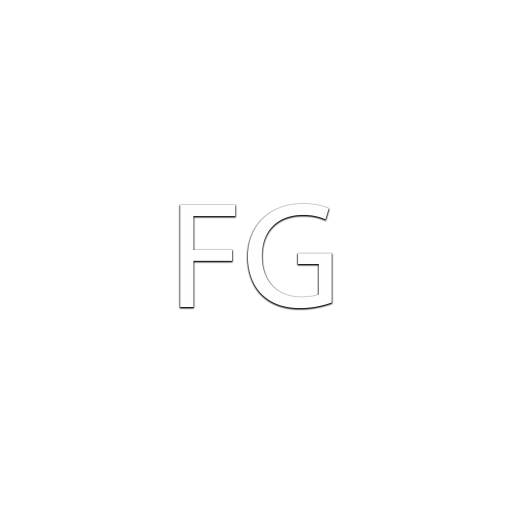
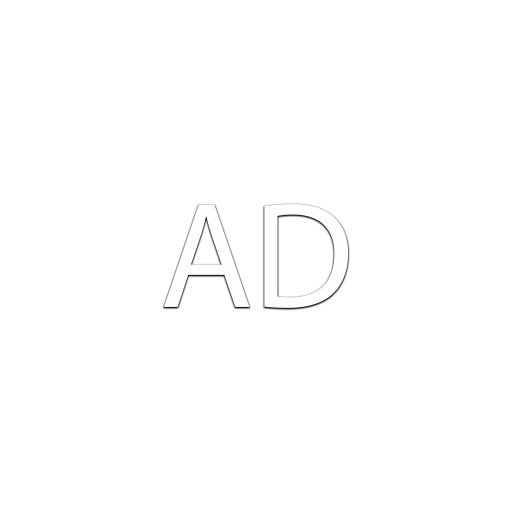
-Made building marker smaller -Completed Loyala Campus Markers
MCGA-8

Changed region(s): [[0.3125, 0.375, 0.6875, 0.625]]

diff --git a/app/src/main/java/com/concordia/mcga/models/Campus.java b/app/src/main/java/com/concordia/mcga/models/Campus.java
@@ -30,6 +30,8 @@ public class Campus extends POI {
 
     private void populateLOYCampusWithBuildings() {
 
+
+        //AD
         MarkerOptions adMarkerOptions = new MarkerOptions().icon(BitmapDescriptorFactory.fromResource(R.mipmap.ic_ad_building));
         buildings.add(new Building(new LatLng(45.458096, -73.639803), "Administration", "AD", adMarkerOptions)
                 .addEdgeCoordinate(new LatLng(45.458175, -73.640261),
@@ -41,6 +43,7 @@ public class Campus extends POI {
                         new LatLng(45.457915, -73.640136),
                         new LatLng(45.458080, -73.640012)));
 
+        //CC
         MarkerOptions ccMarkerOptions = new MarkerOptions().icon(BitmapDescriptorFactory.fromResource(R.mipmap.ic_cc_building));
         buildings.add(new Building(new LatLng(45.458335, -73.640467), "Central", "CC", ccMarkerOptions)
                 .addEdgeCoordinate(new LatLng(45.458175, -73.640261),
@@ -48,6 +51,7 @@ public class Campus extends POI {
                         new LatLng(45.458523, -73.640692),
                         new LatLng(45.458379, -73.640806)));
 
+        //RF
         MarkerOptions rfMarkerOptions = new MarkerOptions().icon(BitmapDescriptorFactory.fromResource(R.mipmap.ic_rf_building));
         buildings.add(new Building(new LatLng(45.458596, -73.641088), "Loyola Jesuit Hall And Conference Center", "RF", rfMarkerOptions)
                 .addEdgeCoordinate(new LatLng(45.458518, -73.640685),
@@ -59,6 +63,7 @@ public class Campus extends POI {
                         new LatLng(45.458686, -73.640803),
                         new LatLng(45.458588, -73.640879)));
 
+        // PY
         MarkerOptions pyMarkerOptions = new MarkerOptions().icon(BitmapDescriptorFactory.fromResource(R.mipmap.ic_py_building));
         buildings.add(new Building(new LatLng(45.458994, -73.640456), "Psychology", "PY", pyMarkerOptions)
                 .addEdgeCoordinate(new LatLng(45.459292, -73.640558),
@@ -68,6 +73,7 @@ public class Campus extends POI {
                         new LatLng(45.459184, -73.640583),
                         new LatLng(45.459207, -73.640631)));
 
+        // RA
         MarkerOptions raMarkerOptions = new MarkerOptions().icon(BitmapDescriptorFactory.fromResource(R.mipmap.ic_ra_building));
         buildings.add(new Building(new LatLng(45.456854, -73.637734), "Recreation And Athletics Complex", "RA", raMarkerOptions)
                 .addEdgeCoordinate(new LatLng(45.456963, -73.638570),
@@ -77,6 +83,7 @@ public class Campus extends POI {
                         new LatLng(45.456828, -73.637089),
                         new LatLng(45.456494, -73.637359)));
 
+        // PC
         MarkerOptions pcMarkerOptions = new MarkerOptions().icon(BitmapDescriptorFactory.fromResource(R.mipmap.ic_pc_building));
         buildings.add(new Building(new LatLng(45.457074, -73.637313), "Perform Center", "PC", pcMarkerOptions)
                 .addEdgeCoordinate(new LatLng(45.457118, -73.637829),
@@ -84,6 +91,7 @@ public class Campus extends POI {
                         new LatLng(45.457052, -73.636764),
                         new LatLng(45.456786, -73.636977)));
 
+        // CJ
         MarkerOptions cjMarkerOptions = new MarkerOptions().icon(BitmapDescriptorFactory.fromResource(R.mipmap.ic_cj_building));
         buildings.add(new Building(new LatLng(45.457491, -73.640380), "Communication Studies and Journalism Building", "CJ", cjMarkerOptions)
                 .addEdgeCoordinate(new LatLng(45.457334, -73.640717),
@@ -115,6 +123,7 @@ public class Campus extends POI {
                         new LatLng(45.457304, -73.640639)
                 ));
 
+        // GE
         MarkerOptions geMarkerOptions = new MarkerOptions().icon(BitmapDescriptorFactory.fromResource(R.mipmap.ic_ge_building));
         buildings.add(new Building(new LatLng(45.456987, -73.640445), "Center For Structural And Functional Genomics", "GE", geMarkerOptions)
                 .addEdgeCoordinate(new LatLng(45.456945, -73.640740),
@@ -128,6 +137,7 @@ public class Campus extends POI {
                         new LatLng(45.456893, -73.640688),
                         new LatLng(45.456919, -73.640670)));
 
+        //SP
         MarkerOptions spMarkerOptions = new MarkerOptions().icon(BitmapDescriptorFactory.fromResource(R.mipmap.ic_sp_building));
         buildings.add(new Building(new LatLng(45.457548, -73.641722), "Richard J. Renaud Science Complex", "SP", spMarkerOptions)
                 .addEdgeCoordinate(new LatLng(45.456983, -73.640829),
@@ -161,7 +171,7 @@ public class Campus extends POI {
                         new LatLng(45.457246, -73.640769),
                         new LatLng(45.457202, -73.640657)));
 
-
+        //PS
         MarkerOptions psMarkerOptions = new MarkerOptions().icon(BitmapDescriptorFactory.fromResource(R.mipmap.ic_ps_building));
         buildings.add(new Building(new LatLng(45.459658, -73.639771), "Physical Services Building", "PS", psMarkerOptions)
                 .addEdgeCoordinate(new LatLng(45.459287, -73.639458),
@@ -179,7 +189,7 @@ public class Campus extends POI {
                         new LatLng(45.459623, -73.639350),
                         new LatLng(45.459576, -73.639230)));
 
-
+        //SC
         MarkerOptions scMarkerOptions = new MarkerOptions().icon(BitmapDescriptorFactory.fromResource(R.mipmap.ic_sc_building));
         buildings.add(new Building(new LatLng(45.459153, -73.639173), "Student Center", "SC", scMarkerOptions)
                 .addEdgeCoordinate(new LatLng(45.458991, -73.639125),
@@ -195,6 +205,7 @@ public class Campus extends POI {
                         new LatLng(45.459078, -73.638997),
                         new LatLng(45.459096, -73.639042)));
 
+        //PT
         MarkerOptions ptMarkerOptions = new MarkerOptions().icon(BitmapDescriptorFactory.fromResource(R.mipmap.ic_pt_building));
         buildings.add(new Building(new LatLng(45.459318, -73.638964), "Oscar Peterson Concert Hall", "PT", ptMarkerOptions)
                 .addEdgeCoordinate(new LatLng(45.459163, -73.638780),
@@ -204,6 +215,7 @@ public class Campus extends POI {
                         new LatLng(45.459483, -73.639136),
                         new LatLng(45.459301, -73.638672)));
 
+        // VL
         MarkerOptions vlMarkerOptions = new MarkerOptions().icon(BitmapDescriptorFactory.fromResource(R.mipmap.ic_vl_building));
         buildings.add(new Building(new LatLng(45.459073, -73.638395), "Vanier Library Building", "VL", vlMarkerOptions)
                 .addEdgeCoordinate(new LatLng(45.458825, -73.638271),
@@ -230,7 +242,7 @@ public class Campus extends POI {
                         new LatLng(45.458887, -73.638175),
                         new LatLng(45.458853, -73.638203),
                         new LatLng(45.458866, -73.638237)));
-
+        // VE
         MarkerOptions veMarkerOptions = new MarkerOptions().icon(BitmapDescriptorFactory.fromResource(R.mipmap.ic_ve_building));
         buildings.add(new Building(new LatLng(45.458848, -73.638634), "Vanier Extension", "VE", veMarkerOptions)
                 .addEdgeCoordinate(new LatLng(45.458825, -73.638271),
@@ -242,6 +254,7 @@ public class Campus extends POI {
                         new LatLng(45.458854, -73.639019),
                         new LatLng(45.459050, -73.638865)));
 
+        // FC
         MarkerOptions fcMarkerOptions = new MarkerOptions().icon(BitmapDescriptorFactory.fromResource(R.mipmap.ic_fc_building));
         buildings.add(new Building(new LatLng(45.458588, -73.639350), "F.C. Smith Building", "FC", fcMarkerOptions)
                 .addEdgeCoordinate(new LatLng(45.458380, -73.639039),
@@ -298,6 +311,120 @@ public class Campus extends POI {
                         new LatLng(45.458508, -73.638980),
                         new LatLng(45.458529, -73.638964),
                         new LatLng(45.458518, -73.638935)));
+
+        // DO
+        MarkerOptions doMarkerOptions = new MarkerOptions().icon(BitmapDescriptorFactory.fromResource(R.mipmap.ic_do_building));
+        buildings.add(new Building(new LatLng(45.457621, -73.636172), "Stinger Dome", "DO", doMarkerOptions)
+                .addEdgeCoordinate(new LatLng(45.456958, -73.636355),
+                        new LatLng(45.457375, -73.637085),
+                        new LatLng(45.458337, -73.635959),
+                        new LatLng(45.457927, -73.635243)));
+
+        MarkerOptions bbMarkerOptions = new MarkerOptions().icon(BitmapDescriptorFactory.fromResource(R.mipmap.ic_bb_building));
+        buildings.add(new Building(new LatLng(45.459753, -73.639166), "Unknown", "BB", bbMarkerOptions)
+                .addEdgeCoordinate(new LatLng(45.459694, -73.639168),
+                        new LatLng(45.459725, -73.639242),
+                        new LatLng(45.459815, -73.639167),
+                        new LatLng(45.459785, -73.639092)));
+
+        MarkerOptions bhMarkerOptions = new MarkerOptions().icon(BitmapDescriptorFactory.fromResource(R.mipmap.ic_bh_building));
+        buildings.add(new Building(new LatLng(45.459727, -73.639093), "Unknown", "BH", bhMarkerOptions)
+                .addEdgeCoordinate(new LatLng(45.459665, -73.639093),
+                        new LatLng(45.459694, -73.639166),
+                        new LatLng(45.459784, -73.639092),
+                        new LatLng(45.459753, -73.639018)));
+
+        MarkerOptions siMarkerOptions = new MarkerOptions().icon(BitmapDescriptorFactory.fromResource(R.mipmap.ic_si_building));
+        buildings.add(new Building(new LatLng(45.457883, -73.642309), "St. Ignatius Of Loyaloa Church", "SI", siMarkerOptions)
+                .addEdgeCoordinate(new LatLng(45.457569, -73.642400),
+                        new LatLng(45.457634, -73.642575),
+                        new LatLng(45.457658, -73.642568),
+                        new LatLng(45.457729, -73.642512),
+                        new LatLng(45.457740, -73.642533),
+                        new LatLng(45.457779, -73.642502),
+                        new LatLng(45.457795, -73.642532),
+                        new LatLng(45.457846, -73.642493),
+                        new LatLng(45.457856, -73.642522),
+                        new LatLng(45.457893, -73.642494),
+                        new LatLng(45.457969, -73.642687),
+                        new LatLng(45.458171, -73.642531),
+                        new LatLng(45.458123, -73.642404),
+                        new LatLng(45.458100, -73.642419),
+                        new LatLng(45.458044, -73.642266),
+                        new LatLng(45.458057, -73.642232),
+                        new LatLng(45.457997, -73.642078),
+                        new LatLng(45.457971, -73.642078),
+                        new LatLng(45.457941, -73.642003),
+                        new LatLng(45.457879, -73.642049),
+                        new LatLng(45.457855, -73.641992),
+                        new LatLng(45.457821, -73.642018),
+                        new LatLng(45.457832, -73.642047),
+                        new LatLng(45.457764, -73.642103),
+                        new LatLng(45.457775, -73.642135),
+                        new LatLng(45.457721, -73.642182),
+                        new LatLng(45.457728, -73.642201),
+                        new LatLng(45.457680, -73.642243),
+                        new LatLng(45.457687, -73.642270),
+                        new LatLng(45.457621, -73.642330),
+                        new LatLng(45.457626, -73.642350)));
+
+        MarkerOptions shMarkerOptions = new MarkerOptions().icon(BitmapDescriptorFactory.fromResource(R.mipmap.ic_sh_building));
+        buildings.add(new Building(new LatLng(45.459370, -73.642453), "Solar House", "SH", shMarkerOptions)
+                .addEdgeCoordinate(new LatLng(45.459335, -73.642363),
+                        new LatLng(45.459341, -73.642547),
+                        new LatLng(45.459409, -73.642543),
+                        new LatLng(45.459405, -73.642359)));
+
+
+        MarkerOptions hbMarkerOptions = new MarkerOptions().icon(BitmapDescriptorFactory.fromResource(R.mipmap.ic_hb_building));
+        buildings.add(new Building(new LatLng(45.459300, -73.641901), "Hingston Hall, wing HB", "HB", hbMarkerOptions)
+                .addEdgeCoordinate(new LatLng(45.459029, -73.641800),
+                        new LatLng(45.459054, -73.641865),
+                        new LatLng(45.459020, -73.641895),
+                        new LatLng(45.459162, -73.642258),
+                        new LatLng(45.459197, -73.642231),
+                        new LatLng(45.459220, -73.642288),
+                        new LatLng(45.459417, -73.642132),
+                        new LatLng(45.459395, -73.642075),
+                        new LatLng(45.459419, -73.642057),
+                        new LatLng(45.459416, -73.642043),
+                        new LatLng(45.459530, -73.641952),
+                        new LatLng(45.459554, -73.642013),
+                        new LatLng(45.459584, -73.641989),
+                        new LatLng(45.459396, -73.641504)));
+
+        MarkerOptions haMarkerOptions = new MarkerOptions().icon(BitmapDescriptorFactory.fromResource(R.mipmap.ic_ha_building));
+        buildings.add(new Building(new LatLng(45.459769, -73.642045), "Hingston Hall, wing HA", "HA", haMarkerOptions)
+                .addEdgeCoordinate(new LatLng(45.459594, -73.642021),
+                        new LatLng(45.459692, -73.642269),
+                        new LatLng(45.459863, -73.642132),
+                        new LatLng(45.459963, -73.642007),
+                        new LatLng(45.459893, -73.641830),
+                        new LatLng(45.459782, -73.641918),
+                        new LatLng(45.459768, -73.641882)));
+
+        MarkerOptions hcMarkerOptions = new MarkerOptions().icon(BitmapDescriptorFactory.fromResource(R.mipmap.ic_hc_building));
+        buildings.add(new Building(new LatLng(45.459458, -73.641224), "Hingston Hall, wing HA", "HC", hcMarkerOptions)
+                .addEdgeCoordinate(new LatLng(45.459253, -73.641071),
+                        new LatLng(45.459277, -73.641133),
+                        new LatLng(45.459261, -73.641145),
+                        new LatLng(45.459395, -73.641496),
+                        new LatLng(45.459410, -73.641485),
+                        new LatLng(45.459431, -73.641542),
+                        new LatLng(45.459676, -73.641352),
+                        new LatLng(45.459652, -73.641289),
+                        new LatLng(45.459663, -73.641281),
+                        new LatLng(45.459528, -73.640932),
+                        new LatLng(45.459514, -73.640943),
+                        new LatLng(45.459492, -73.640883)));
+
+        MarkerOptions taMarkerOptions = new MarkerOptions().icon(BitmapDescriptorFactory.fromResource(R.mipmap.ic_ta_building));
+        buildings.add(new Building(new LatLng(45.459987, -73.640898), "Terrebonne Building", "TA", taMarkerOptions)
+                .addEdgeCoordinate(new LatLng(45.459940, -73.640868),
+                        new LatLng(45.459978, -73.640970),
+                        new LatLng(45.460033, -73.640929),
+                        new LatLng(45.459993, -73.640827)));
+
 
 
     }
